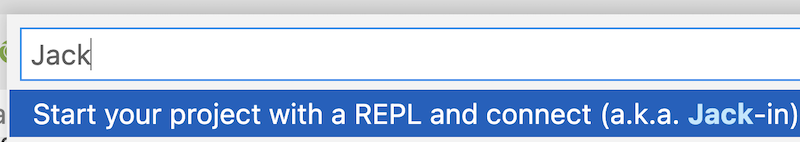
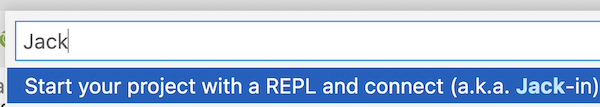
Fix typo, decrease image

diff --git a/README.md b/README.md
@@ -14,7 +14,7 @@ Workshop: Web development from the future / Introduction to creating webapps wit
 
 In this workshop you will get a brief introduction to Fulcro and then get your hands dirty exploring the concepts in practice on an existing application in a series of guided exercises. We will use the excellent Fulcro Inspect tooling and mess up with the code.
 
-There are two slight variations of this workshop, depending on whether you have previous experience with Clojure or not. The text below caters primarily to the Clojure-experienced crowd and some parts might be simplified / jumped over for non-Clojure audience.
+There are two slight variations of this workshop, depending on whether you have previous experience with Clojure or not. The text below caters primarily to the Clojure-experienced crowd and some parts might be simplified / jumped over for non-Clojure audiences.
 
 You can find the workshop materials [here](docs), including:
 
@@ -59,14 +59,14 @@ To do right now:
 An hour or so before the workshop:
 
 * Have the [application running](#running-the-app-from-vs-code-with-calva) as described below. Make sure you can see the To Do application in the browser. If not, follow the _Troubleshooting_ instructions below. Open Dev Tools and verify that _Fulcro Inspect_ is there.
-* Set up your windows as described in the [workshop instructions](https://github.com/holyjak/fulcro-intro-wshop/blob/main/docs/Workshop.adoc#setup) and have both these workshop and [Fulcro intro](https://github.com/holyjak/fulcro-intro-wshop/blob/main/docs/INTRO.md) opened in a browser tab:
+* Set up your windows as described in the [workshop instructions](https://github.com/holyjak/fulcro-intro-wshop/blob/main/docs/Workshop.adoc#setup) and have both these workshop instructions and the [Fulcro intro](https://github.com/holyjak/fulcro-intro-wshop/blob/main/docs/INTRO.md) opened in two tabs of a browser window:
 
 !["Apps layout"](docs/images/fulcro-wshop-screen-setup.png)
 
 Usage
 -----
 
-### Running the app with in-browser VS Code and backend via Gitpod [EXPERIMENTAL]
+### Running the app with in-browser VS Code and backend via Gitpod
 
 It is preferable to run the app locally with Calva (see below) but if you run into some issues with the editor or tooling, you can run everything in the browser with a pre-configured virtual machine:
 

diff --git a/docs/INTRO.md b/docs/INTRO.md
@@ -8,7 +8,7 @@
    * Review [Summary - lessons learned](Workshop.adoc#summary---lessons-learned) at the end
 3. Q&A session
 4. (Coding exercises - likely a home work, unless we are really quick)
-   * Learn building a Fulcro app from "scratch," once concept at a time
+   * Learn building a Fulcro app from "scratch," one concept at a time
 
 ## Fulcro intro
 
